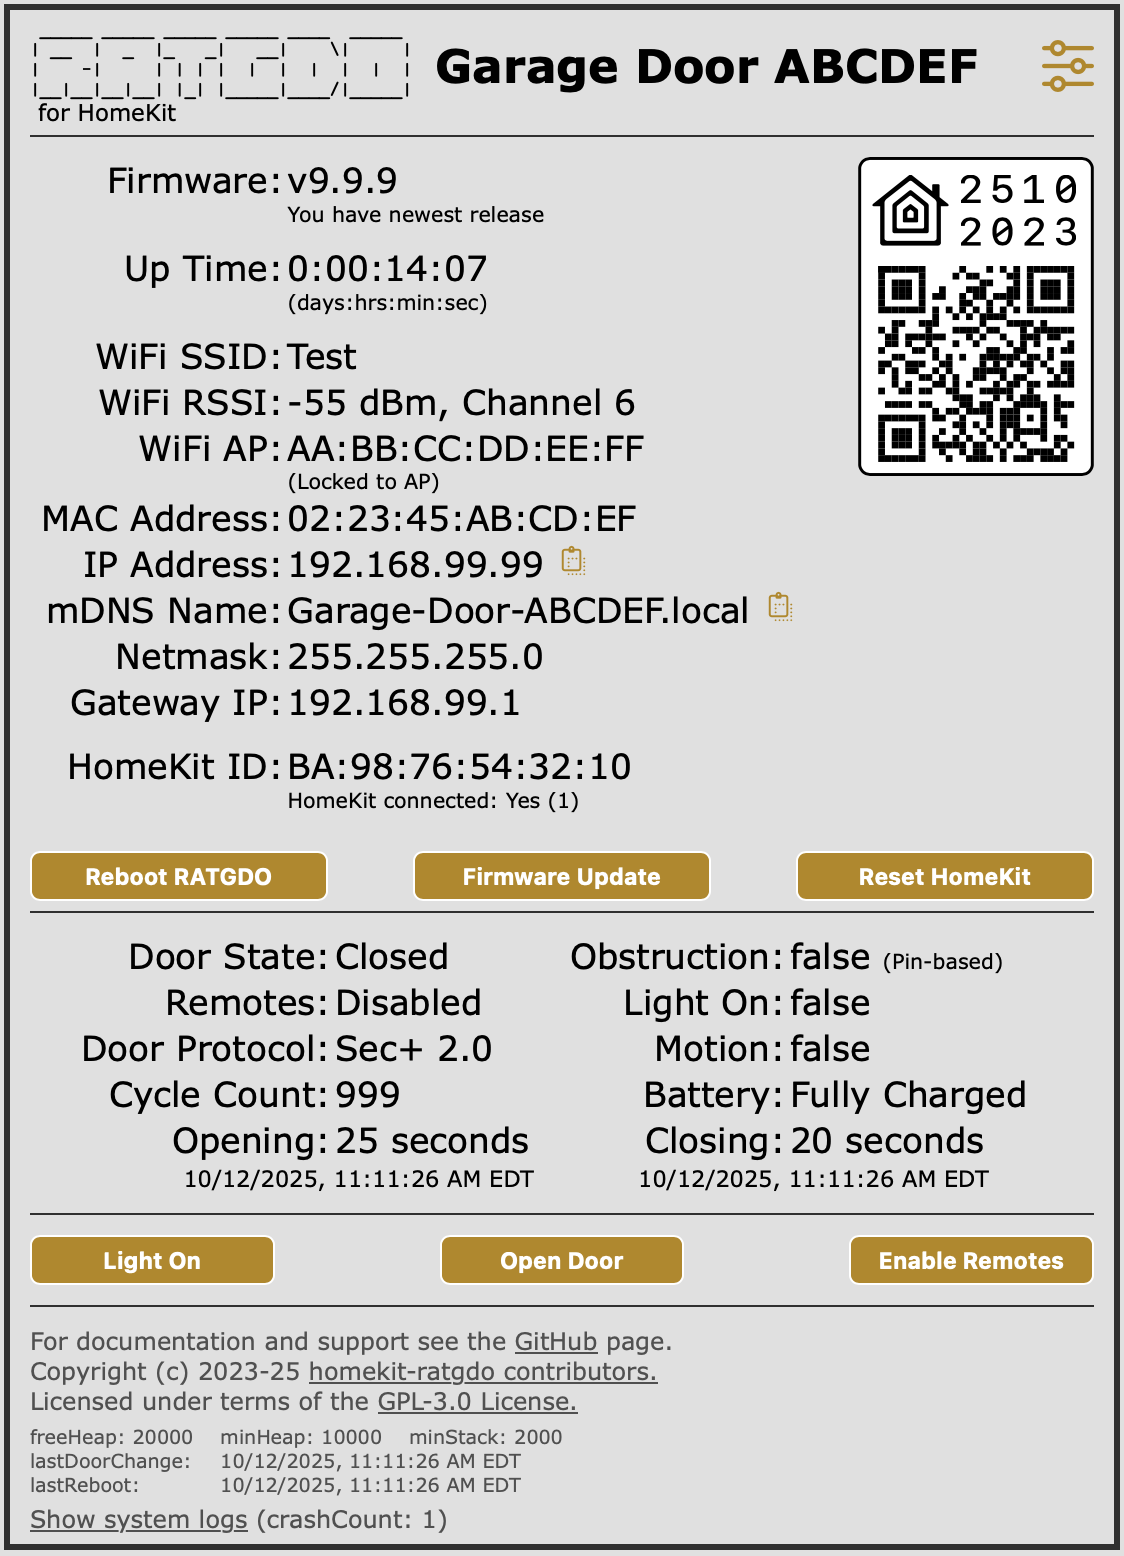
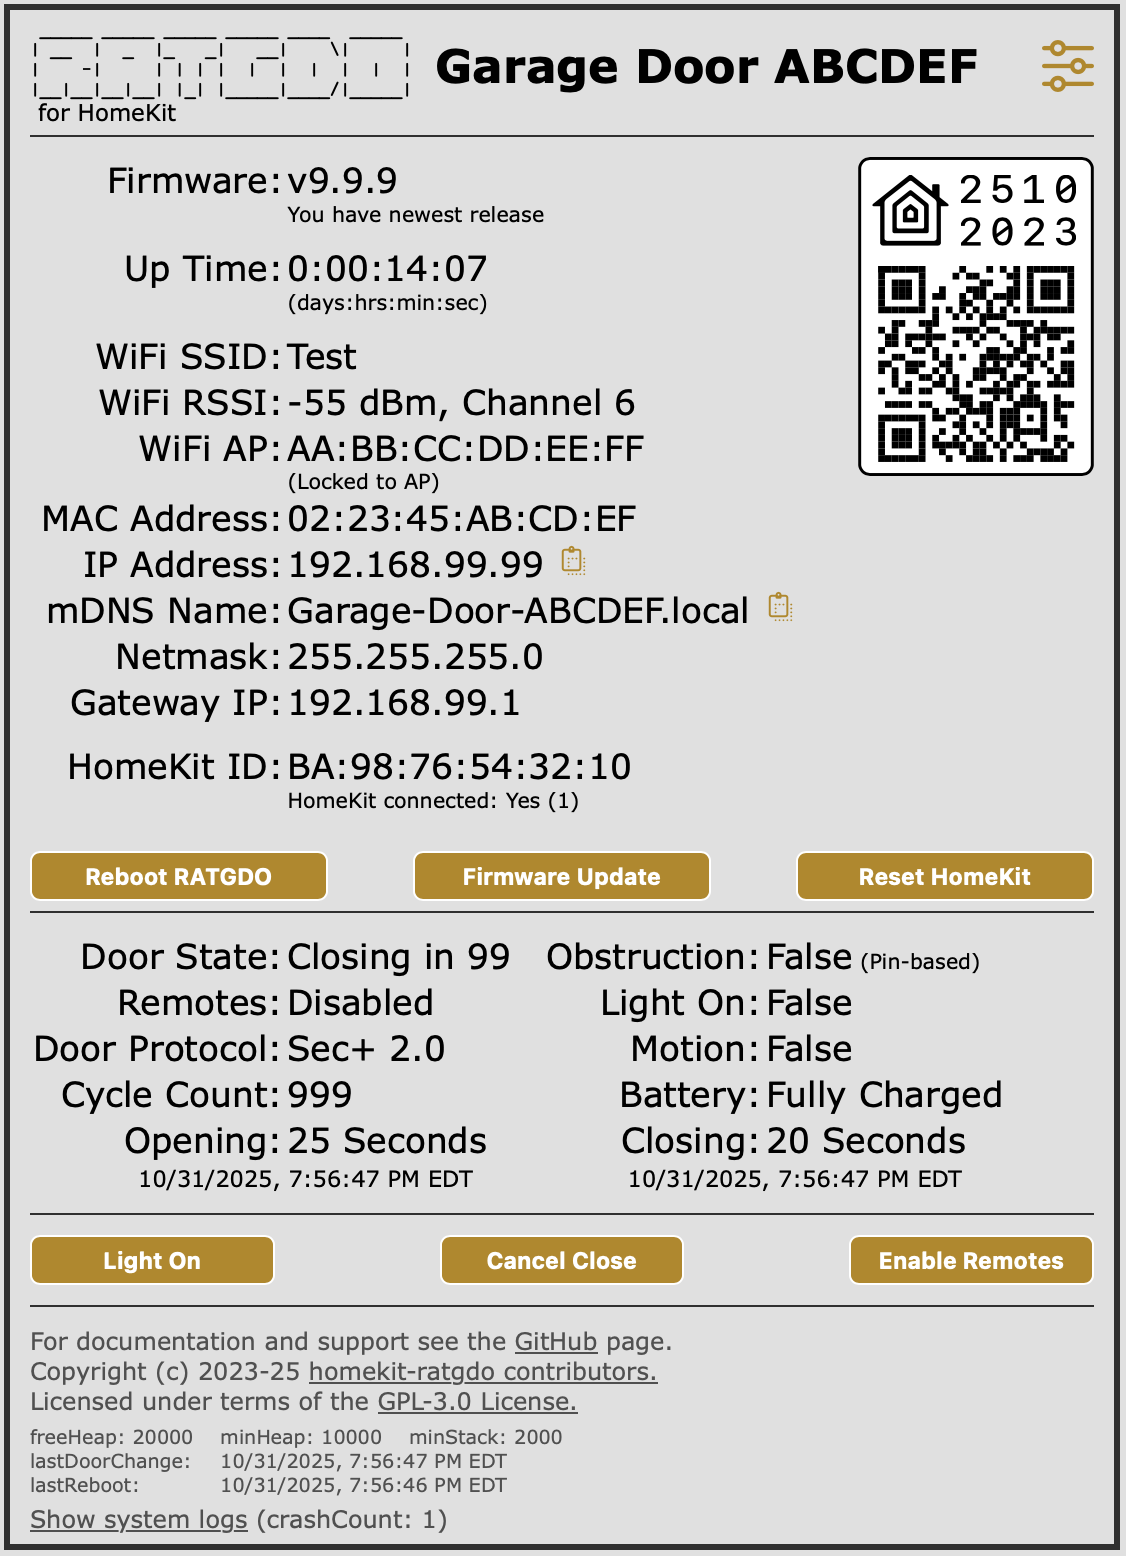
Update version number, CHANGELOG.md and README.md

diff --git a/README.md b/README.md
@@ -167,7 +167,7 @@ You can select the verbosity of log messages from none to verbose. Default is _I
 
 ### HomeSpan
 
-On ratgdo32 boards we use an external library, [HomeSpan](https://github.com/HomeSpan/HomeSpan), for all HomeKit operations. When debugging using the serial port it may be helpful to enable HomeSpan's message logging and Command Line Interface (CLI). If you enable this setting then Improv-based WiFi provisioning is disabled unless the ratgdo32 boots into SoftAP mode.
+On ratgdo32 boards we use an external library, [HomeSpan](https://github.com/HomeSpan/HomeSpan), for all HomeKit operations. When debugging using the serial port it may be helpful to enable HomeSpan's message logging and Command Line Interface (CLI). If you enable this setting then Improv-based serial port WiFi provisioning is disabled unless the ratgdo32 boots into SoftAP mode.
 
 ### Door Close Delay
 
@@ -181,11 +181,23 @@ You can disable the garage door opener light from flashing during the delay peri
 > The US Consumer Product Safety Act Regulations, section 1211.14, unattended operation requirements [16 CFR § 1211.14](https://www.law.cornell.edu/cfr/text/16/1211.14), state that there must be a minimum delay of 5 seconds before the door closes.
 > The regulation also requires that the light flash with audible beeping. If you select a time-to-close delay of under 5 seconds, or disable light flashing, then a warning is shown in the web settings page and you accept all responsibility and liability for injury or any other loss.
 
+### Automatic Close
+
+Security+ 2.0 doors have a built-in time-to-close feature that automatically closes the door a specified time after it is opened. This slider lets you set the duration between one minute and one hour after which the door will automatically close. The door will sound an audible warning and flash the lights for 5-6 seconds before closing.
+
+Setting the slider to zero, and saving the settings, will cancel the garage door built-in automatic close timer. If you need to send a cancel command and the slider is currently at zero, first set a non-zero duration, save that, then set it back to zero and save. The door opener will beep on receipt of a cancel command.
+
+> [!NOTE]
+> When ratgdo boots it cannot determine whether a automatic close time is set and the slider will default to zero, or the value last set here. If you set a time-to-close from a digital wall panel while ratgdo is online, then the ratgdo will receive notification of the setting and update itself.
+
+> [!WARNING]
+> Automatic close will not work if on battery power or if the obstruction sensors are misaligned. This feature is NOT intended to be the primary method of closing the door. **A keyless entry should be installed in the event of an accidental lock out while using this feature.**
+
 ### Motion Triggers
 
-This allows you to select what causes the HomeKit motion sensor accessory to trigger. The default is to use the motion sensor built into the garage door opener, if it exists. This checkbox is not selectable because presence of the motion sensor is detected automatically... based on detecting motion in the garage. If your door opener does not have a motion sensor then the checkbox will show as un-checked.
+This allows you to select what causes the HomeKit motion sensor accessory to trigger. The default is to use the motion sensor built into the garage door opener, if it exists. The presence of a motion sensor is detected automatically... based on detecting motion in the garage. If your door opener does not have a motion sensor then the checkbox will show as un-checked and un-selectable.
 
-Motion can also be triggered by the obstruction sensor. This is disabled by default but may be selected on the web page.
+Motion can also be triggered by the obstruction sensor or by a user pressing the door, light or lock buttons on the wall panel. This is disabled by default but may be selected on the web page.
 
 ### Occupancy Duration _(not supported on ratgdo v2.5 boards)_
 

diff --git a/CHANGELOG.md b/CHANGELOG.md
@@ -2,13 +2,17 @@
 
 All notable changes to `homekit-ratgdo` will be documented in this file. This project tries to adhere to [Semantic Versioning](http://semver.org/).
 
-## v2.0.9 (2025-10-24)
+## v2.1.0 (2025-11-01)
 
 ### What's Changed
 
-* Bugfix: Update function that calculates median door open/close duration. https://github.com/ratgdo/homekit-ratgdo/issues/309
-* Bugfix: Do not cancel time-to-close if second door close request received. https://github.com/ratgdo/homekit-ratgdo32/issues/112
-* Other: Additional Serial CLI commands for development and debugging to e.g, provision WiFi SSID and password.
+* Bugfix: User selected syslog facility not restored on startup. https://github.com/ratgdo/homekit-ratgdo32/issues/116
+* Bugfix: Crash when HomeKit tries to open or close a dry contact door. https://github.com/ratgdo/homekit-ratgdo32/issues/117
+* Bugfix: Sec+2.0 only, not handling packet transmit errors during initialization
+* Feature: Sec+2.0 only, support garage door automatic close after selected delay, [SEE README](https://github.com/ratgdo/homekit-ratgdo/blob/main/README.md#automatic-close)
+* Feature: Add time-to-close countdown timer to web page
+* Other: Allow user to disable triggering motion from Sec+2.0 wall panel motion sensors
+* Other: Adjust some Info-level log messages to Debug- or Error-level... reduces log clutter at default Info level
 
 ### Known Issues
 
@@ -16,6 +20,14 @@ All notable changes to `homekit-ratgdo` will be documented in this file. This pr
 * Sec+ 1.0 doors with "0x37" digital wall panel (e.g. 398LM) not working.  We now detect but will not support them.  Recommend replacing with 889LM panel.
 * When creating automations in Apple Home the garage door may show only lock/unlock and not open/close as triggers.  This is a bug in Apple Home. Workaround is to use the Eve App to create the automation, it will show both options.
 * ESP8266 (original ratgdo) only... possible crash when a storm of HomeKit messages arrives... which may be triggered on a upgrade to Apple iOS 26 / tvOS 26 / etc.  System recovers.
+
+## v2.0.9 (2025-10-24)
+
+### What's Changed
+
+* Bugfix: Update function that calculates median door open/close duration. https://github.com/ratgdo/homekit-ratgdo/issues/309
+* Bugfix: Do not cancel time-to-close if second door close request received. https://github.com/ratgdo/homekit-ratgdo32/issues/112
+* Other: Additional Serial CLI commands for development and debugging to e.g, provision WiFi SSID and password.
 
 ## v2.0.8 (2025-10-19)
 
